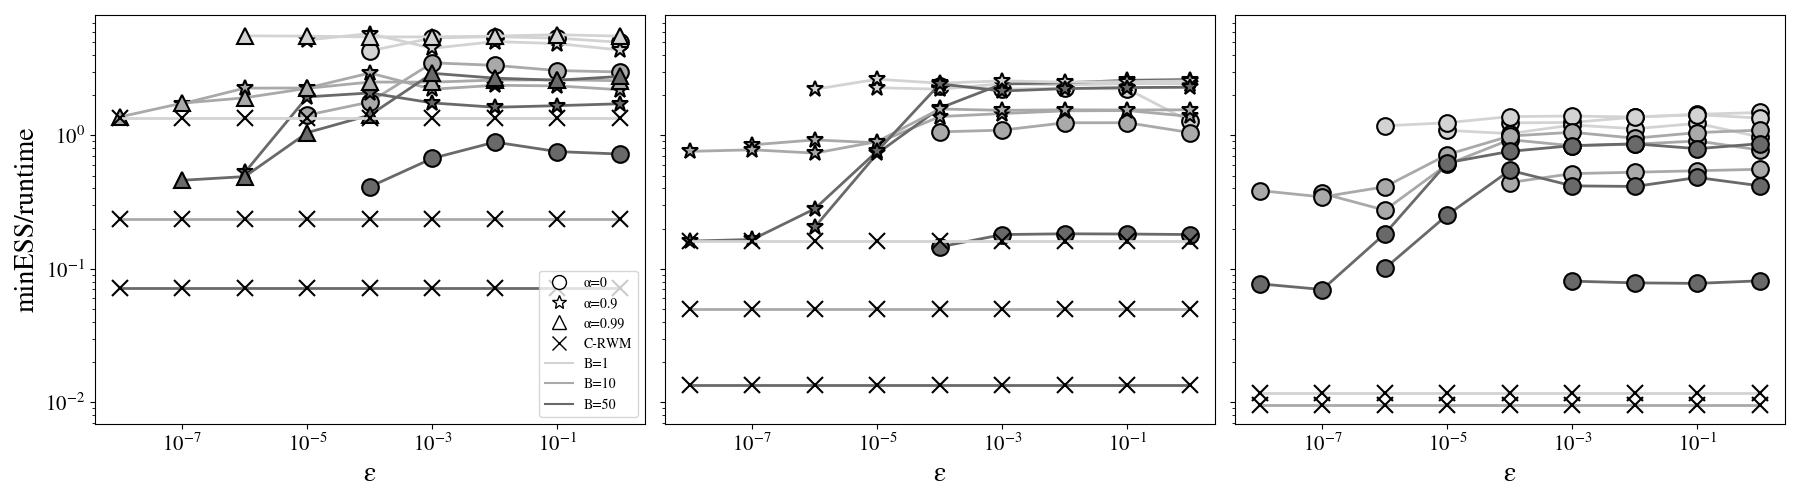
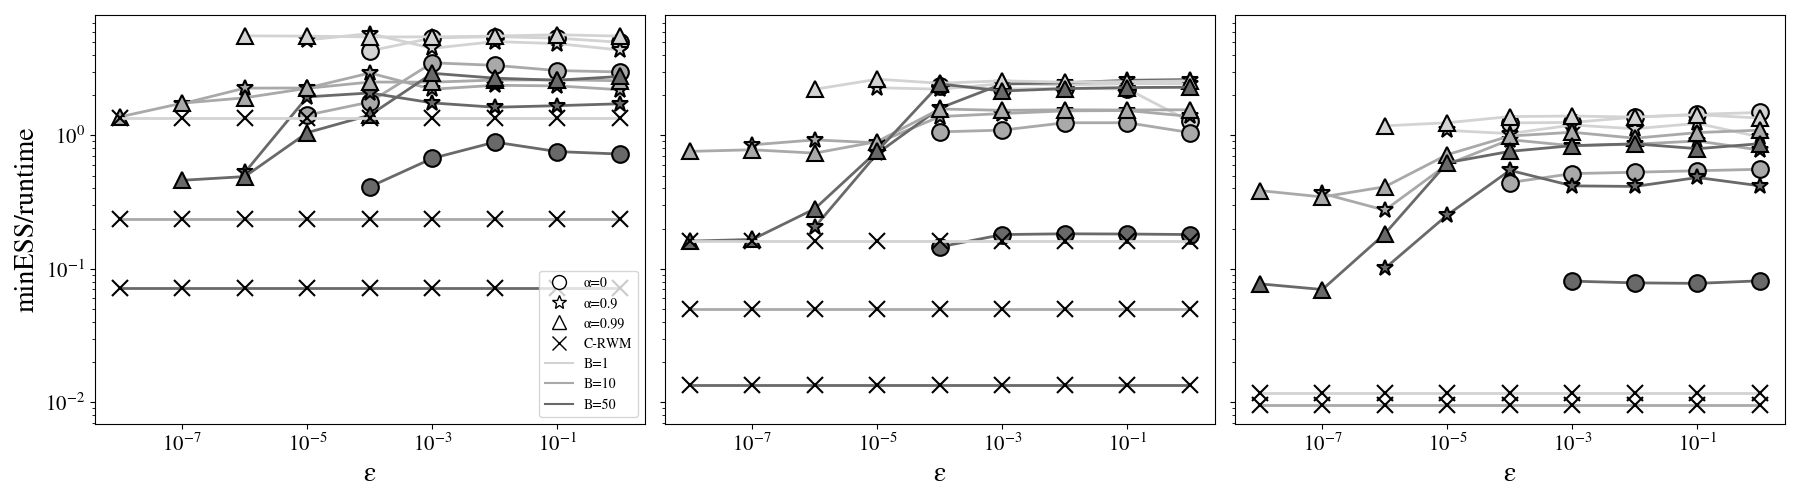
updated markers in plot

diff --git a/GK_Plots.py b/GK_Plots.py
@@ -96,9 +96,9 @@ ax[m100].plot(EPSILONS, show_only_positive_ap(THUG09_CC_100, THUG09_AP_100, 0), 
 ax[m100].plot(EPSILONS, show_only_positive_ap(THUG09_CC_100, THUG09_AP_100, 1), label='10α', marker='*', color='darkgrey', markersize=MARKERSIZE, markeredgecolor='k', lw=LINEWIDTH, markeredgewidth=MARKEREDGEWIDTH)
 ax[m100].plot(EPSILONS, show_only_positive_ap(THUG09_CC_100, THUG09_AP_100, 2), label='50α', marker='*', color='dimgrey', markersize=MARKERSIZE, markeredgecolor='k', lw=LINEWIDTH, markeredgewidth=MARKEREDGEWIDTH)
 # α = 0.99
-ax[m100].plot(EPSILONS, show_only_positive_ap(THUG99_CC_100, THUG99_AP_100, 0), label='1α', marker='*', color='lightgray', markersize=MARKERSIZE, markeredgecolor='k', lw=LINEWIDTH, markeredgewidth=MARKEREDGEWIDTH)
-ax[m100].plot(EPSILONS, show_only_positive_ap(THUG99_CC_100, THUG99_AP_100, 1), label='10α', marker='*', color='darkgrey', markersize=MARKERSIZE, markeredgecolor='k', lw=LINEWIDTH, markeredgewidth=MARKEREDGEWIDTH)
-ax[m100].plot(EPSILONS, show_only_positive_ap(THUG99_CC_100, THUG99_AP_100, 2), label='50α', marker='*', color='dimgrey', markersize=MARKERSIZE, markeredgecolor='k', lw=LINEWIDTH, markeredgewidth=MARKEREDGEWIDTH)
+ax[m100].plot(EPSILONS, show_only_positive_ap(THUG99_CC_100, THUG99_AP_100, 0), label='1α', marker='^', color='lightgray', markersize=MARKERSIZE, markeredgecolor='k', lw=LINEWIDTH, markeredgewidth=MARKEREDGEWIDTH)
+ax[m100].plot(EPSILONS, show_only_positive_ap(THUG99_CC_100, THUG99_AP_100, 1), label='10α', marker='^', color='darkgrey', markersize=MARKERSIZE, markeredgecolor='k', lw=LINEWIDTH, markeredgewidth=MARKEREDGEWIDTH)
+ax[m100].plot(EPSILONS, show_only_positive_ap(THUG99_CC_100, THUG99_AP_100, 2), label='50α', marker='^', color='dimgrey', markersize=MARKERSIZE, markeredgecolor='k', lw=LINEWIDTH, markeredgewidth=MARKEREDGEWIDTH)
 # C-RWM
 ax[m100].plot(EPSILONS, show_only_positive_ap_crwm(CRWM_CC_100, CRWM_AP_100, EPSILONS, 0), label='1C', marker='x', markersize=MARKERSIZE, markeredgecolor='k', markeredgewidth=MARKEREDGEWIDTH, color='lightgray', lw=CRWM_LINEWIDTH)
 ax[m100].plot(EPSILONS, show_only_positive_ap_crwm(CRWM_CC_100, CRWM_AP_100, EPSILONS, 1), label='10C', marker='x', markersize=MARKERSIZE, markeredgecolor='k', markeredgewidth=MARKEREDGEWIDTH, color='darkgrey', lw=CRWM_LINEWIDTH)
@@ -109,13 +109,13 @@ ax[m200].plot(EPSILONS, show_only_positive_ap(THUG00_CC_200, THUG00_AP_200, 0), 
 ax[m200].plot(EPSILONS, show_only_positive_ap(THUG00_CC_200, THUG00_AP_200, 1), label='10T', marker='o', color='darkgrey', markersize=MARKERSIZE, markeredgecolor='k', lw=LINEWIDTH, markeredgewidth=MARKEREDGEWIDTH)
 ax[m200].plot(EPSILONS, show_only_positive_ap(THUG00_CC_200, THUG00_AP_200, 2), label='50T', marker='o', color='dimgrey', markersize=MARKERSIZE, markeredgecolor='k', lw=LINEWIDTH, markeredgewidth=MARKEREDGEWIDTH)
 # α = 0.9
-ax[m200].plot(EPSILONS, show_only_positive_ap(THUG09_CC_200, THUG09_AP_200, 0), label='1T', marker='o', color='lightgray', markersize=MARKERSIZE, markeredgecolor='k', lw=LINEWIDTH, markeredgewidth=MARKEREDGEWIDTH)
-ax[m200].plot(EPSILONS, show_only_positive_ap(THUG09_CC_200, THUG09_AP_200, 1), label='10T', marker='o', color='darkgrey', markersize=MARKERSIZE, markeredgecolor='k', lw=LINEWIDTH, markeredgewidth=MARKEREDGEWIDTH)
-ax[m200].plot(EPSILONS, show_only_positive_ap(THUG09_CC_200, THUG09_AP_200, 2), label='50T', marker='o', color='dimgrey', markersize=MARKERSIZE, markeredgecolor='k', lw=LINEWIDTH, markeredgewidth=MARKEREDGEWIDTH)
+ax[m200].plot(EPSILONS, show_only_positive_ap(THUG09_CC_200, THUG09_AP_200, 0), label='1T', marker='*', color='lightgray', markersize=MARKERSIZE, markeredgecolor='k', lw=LINEWIDTH, markeredgewidth=MARKEREDGEWIDTH)
+ax[m200].plot(EPSILONS, show_only_positive_ap(THUG09_CC_200, THUG09_AP_200, 1), label='10T', marker='*', color='darkgrey', markersize=MARKERSIZE, markeredgecolor='k', lw=LINEWIDTH, markeredgewidth=MARKEREDGEWIDTH)
+ax[m200].plot(EPSILONS, show_only_positive_ap(THUG09_CC_200, THUG09_AP_200, 2), label='50T', marker='*', color='dimgrey', markersize=MARKERSIZE, markeredgecolor='k', lw=LINEWIDTH, markeredgewidth=MARKEREDGEWIDTH)
 # α = 0.99
-ax[m200].plot(EPSILONS, show_only_positive_ap(THUG99_CC_200, THUG99_AP_200, 0), label='1T', marker='o', color='lightgray', markersize=MARKERSIZE, markeredgecolor='k', lw=LINEWIDTH, markeredgewidth=MARKEREDGEWIDTH)
-ax[m200].plot(EPSILONS, show_only_positive_ap(THUG99_CC_200, THUG99_AP_200, 1), label='10T', marker='o', color='darkgrey', markersize=MARKERSIZE, markeredgecolor='k', lw=LINEWIDTH, markeredgewidth=MARKEREDGEWIDTH)
-ax[m200].plot(EPSILONS, show_only_positive_ap(THUG99_CC_200, THUG99_AP_200, 2), label='50T', marker='o', color='dimgrey', markersize=MARKERSIZE, markeredgecolor='k', lw=LINEWIDTH, markeredgewidth=MARKEREDGEWIDTH)
+ax[m200].plot(EPSILONS, show_only_positive_ap(THUG99_CC_200, THUG99_AP_200, 0), label='1T', marker='^', color='lightgray', markersize=MARKERSIZE, markeredgecolor='k', lw=LINEWIDTH, markeredgewidth=MARKEREDGEWIDTH)
+ax[m200].plot(EPSILONS, show_only_positive_ap(THUG99_CC_200, THUG99_AP_200, 1), label='10T', marker='^', color='darkgrey', markersize=MARKERSIZE, markeredgecolor='k', lw=LINEWIDTH, markeredgewidth=MARKEREDGEWIDTH)
+ax[m200].plot(EPSILONS, show_only_positive_ap(THUG99_CC_200, THUG99_AP_200, 2), label='50T', marker='^', color='dimgrey', markersize=MARKERSIZE, markeredgecolor='k', lw=LINEWIDTH, markeredgewidth=MARKEREDGEWIDTH)
 # C-RWM
 ax[m200].plot(EPSILONS, show_only_positive_ap_crwm(CRWM_CC_200, CRWM_AP_200, EPSILONS, 0), label='1C', marker='x', markersize=MARKERSIZE, markeredgecolor='k', markeredgewidth=MARKEREDGEWIDTH, color='lightgray', lw=CRWM_LINEWIDTH)
 ax[m200].plot(EPSILONS, show_only_positive_ap_crwm(CRWM_CC_200, CRWM_AP_200, EPSILONS, 1), label='10C', marker='x', markersize=MARKERSIZE, markeredgecolor='k', markeredgewidth=MARKEREDGEWIDTH, color='darkgrey', lw=CRWM_LINEWIDTH)
